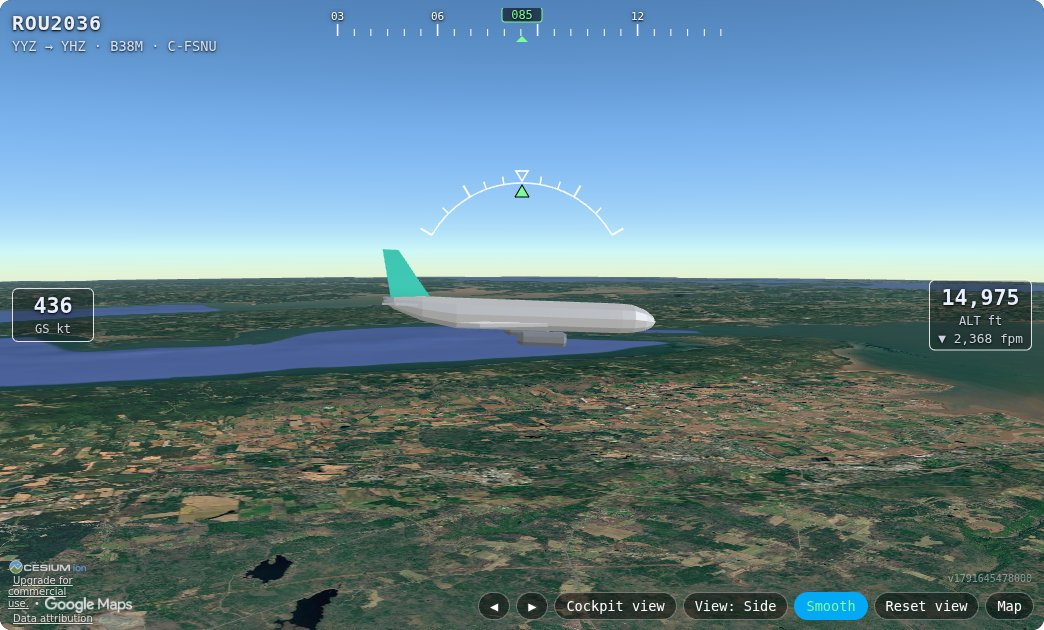
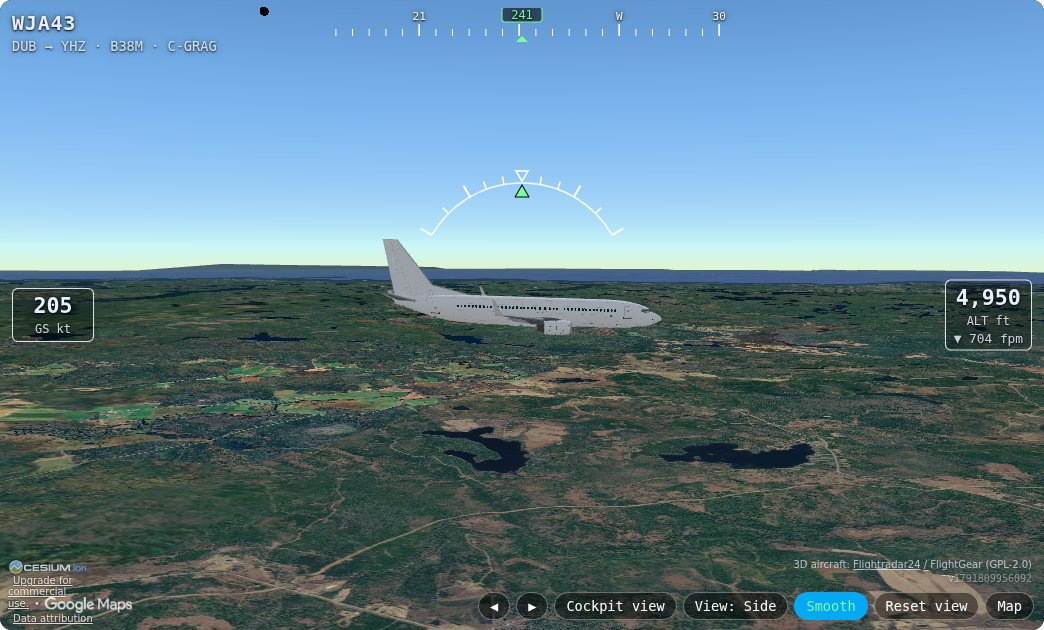
README: Follow view picture with Flightradar24's 737 model (WJA43)

diff --git a/README.md b/README.md
@@ -27,7 +27,7 @@ Two pieces that work together:
 
 ![Cockpit tab: Delta 113, Rome to Boston, an A330-300 at 36,000 ft coming in over the Nova Scotia coast on Google's photorealistic 3D tiles, with JetBlue 2260 ahead and the HUD's heading tape, ground speed and altitude](docs/cockpit.jpg)
 
-![Follow view, Side angle: Air Canada Rouge 2036, Toronto to Halifax on a 737 MAX 8, descending through 15,000 ft over Nova Scotia](docs/follow.jpg)
+![Follow view, Side angle: WestJet 43, Dublin to Halifax on a 737 MAX 8, descending through 4,950 ft over Nova Scotia, drawn with Flightradar24's 737-800 model](docs/follow.jpg)
 
 ![HUD on final: Air Canada Rouge 2064, an A319 from Toronto, 4 nm out on runway 32 at Halifax Stanfield, with the flight path vector on the threshold, ILS-style glideslope and localizer diamonds (130 ft high, 0.14 nm right), speed and altitude tapes, the autopilot's selected altitude, baro setting and vertical speed](docs/hud.jpg)
 
